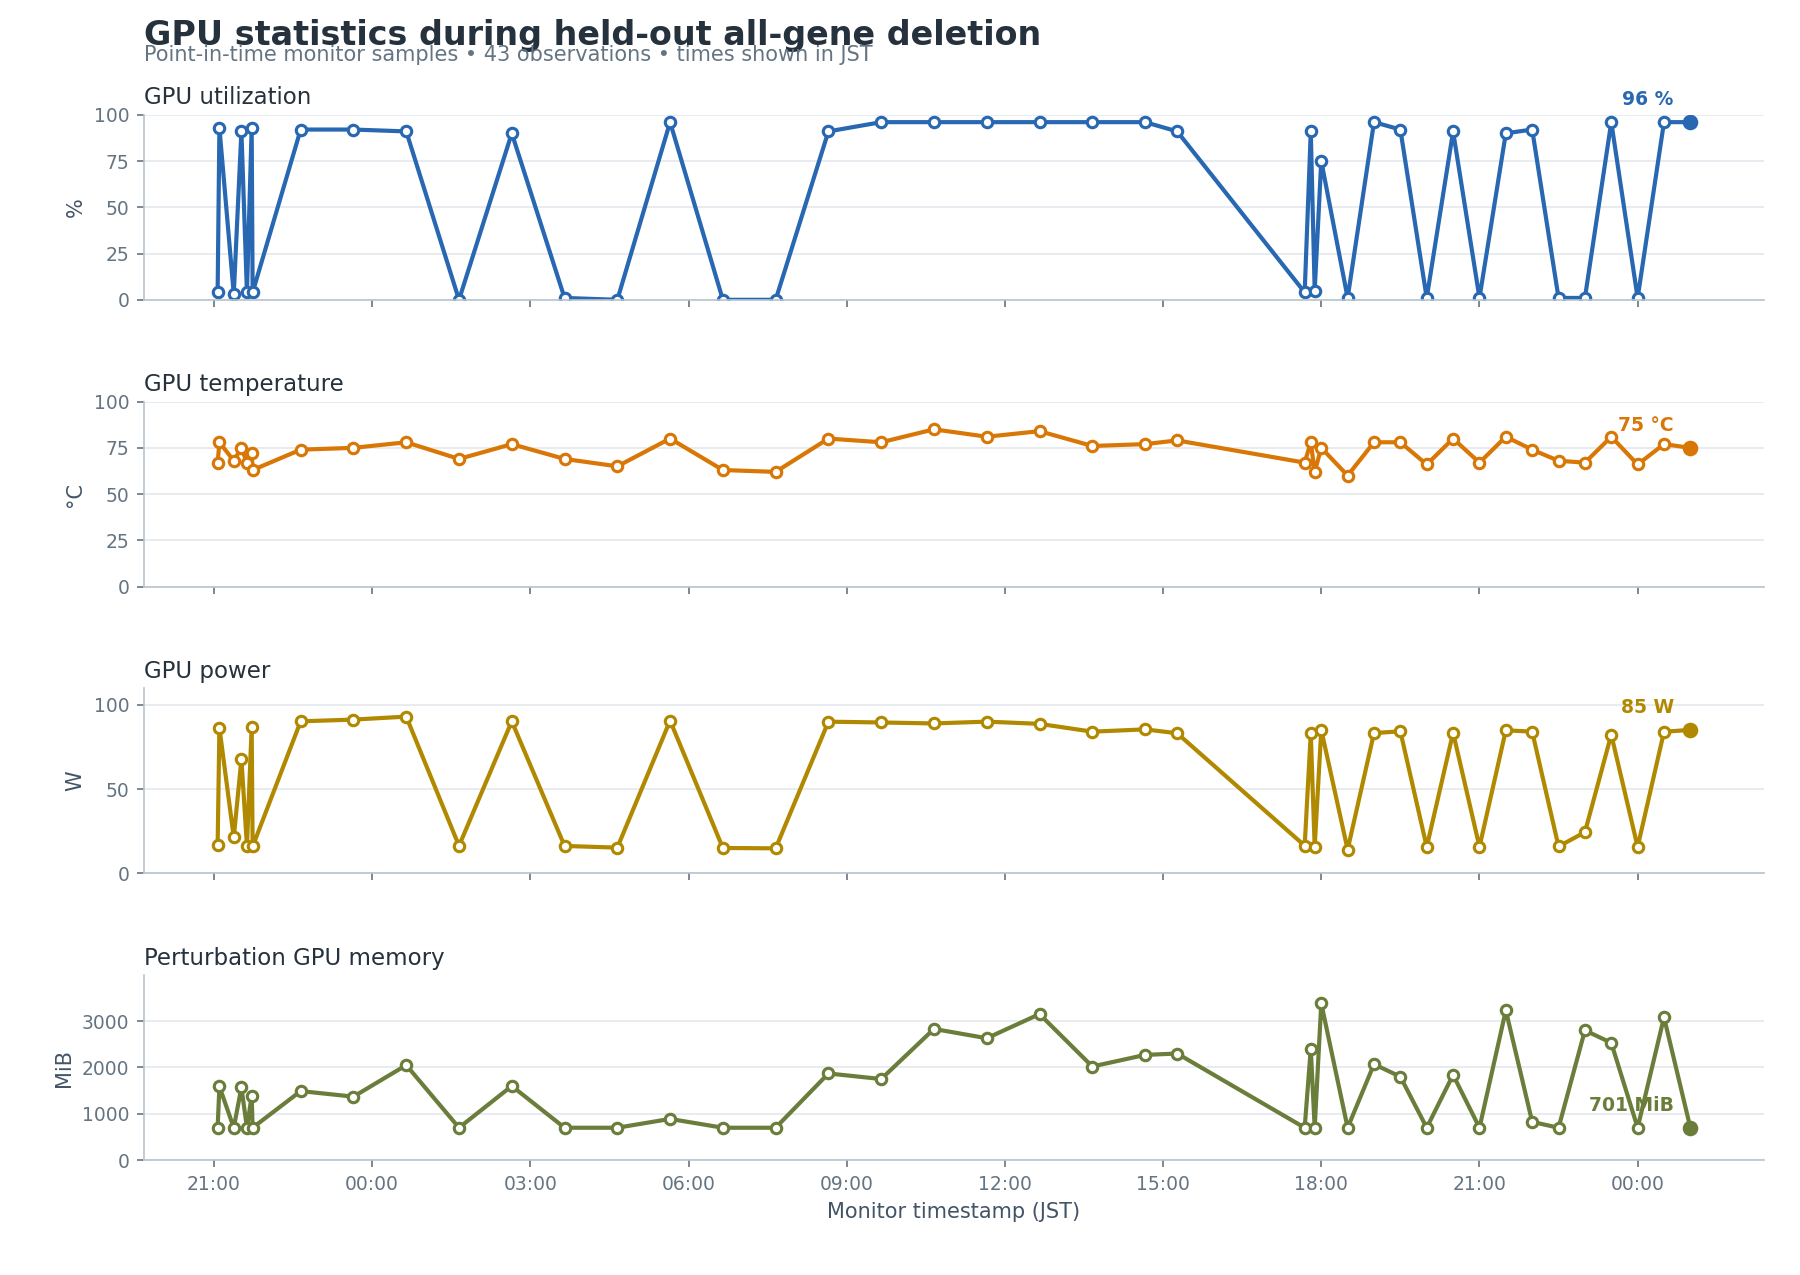
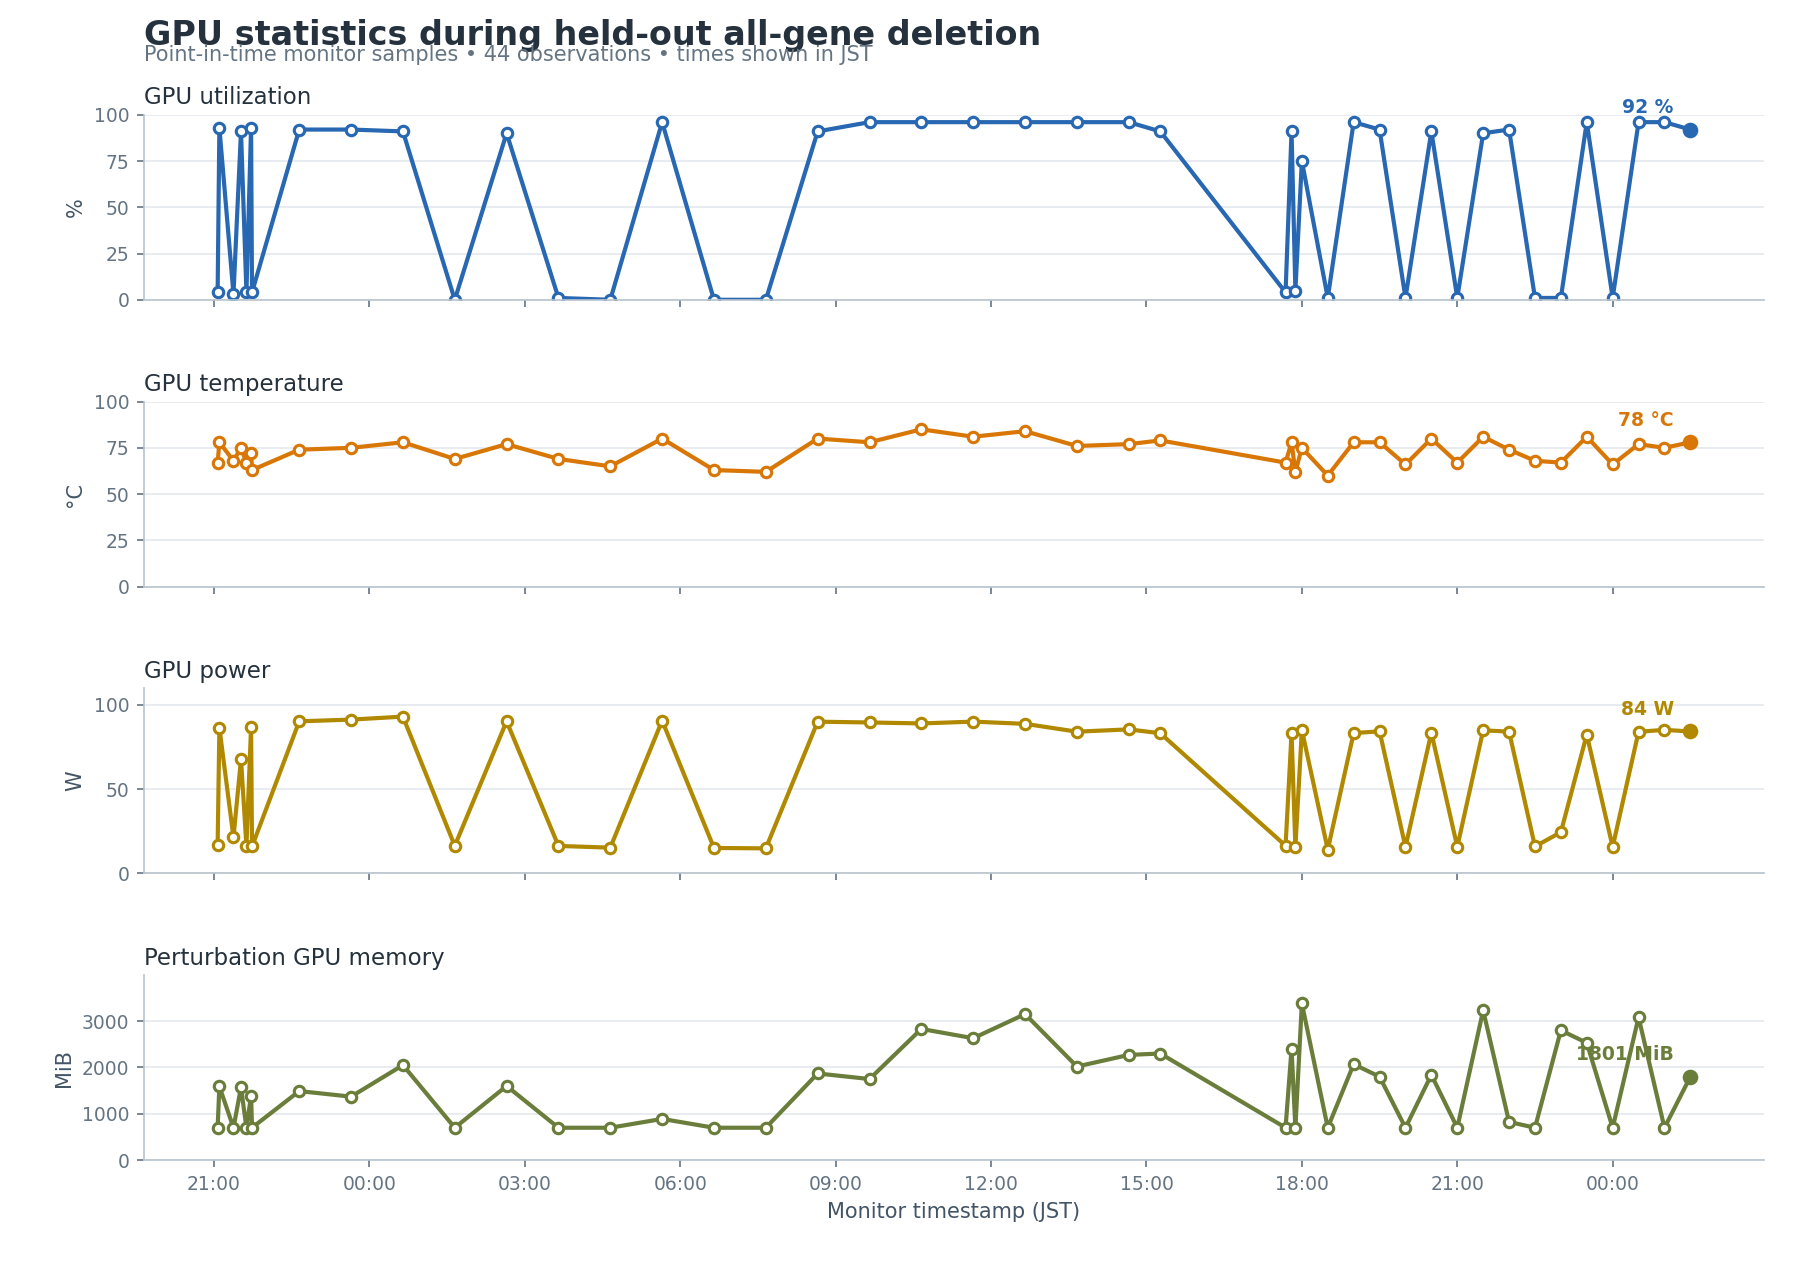
monitor: update perturbation status 2026-07-19 01:30 JST

diff --git a/current_workflow/monitoring/GPU_PROGRESS_REPORT.md b/current_workflow/monitoring/GPU_PROGRESS_REPORT.md
@@ -15,6 +15,7 @@ Newest refreshes are appended at the top and retained for the most recent
 48 runs.
 
 <!-- JOB_RUN_SUMMARIES_START -->
+- **2026-07-19T01:30:01+09:00** — RUNNING; 3,307 / 3,379 cells (97.87%). The run advanced by 43 cells and 2 shards, lifting completion from 96.60% to 97.87%. LUSC remained complete; LUAD remained complete; NORMAL moved from 1,293 to 1,336 cells; GPU utilization fell from 96% to 92%.
 - **2026-07-19T01:00:01+09:00** — RUNNING; 3,264 / 3,379 cells (96.60%). The run advanced by 43 cells and 1 shards, lifting completion from 95.32% to 96.60%. LUSC remained complete; LUAD remained complete; NORMAL moved from 1,250 to 1,293 cells; GPU utilization stayed at 96%.
 - **2026-07-19T00:30:01+09:00** — RUNNING; 3,221 / 3,379 cells (95.32%). The run advanced by 55 cells and 3 shards, lifting completion from 93.70% to 95.32%. LUSC remained complete; LUAD remained complete; NORMAL moved from 1,195 to 1,250 cells; GPU utilization rose from 1% to 96%.
 - **2026-07-19T00:00:01+09:00** — RUNNING; 3,166 / 3,379 cells (93.70%). The run advanced by 42 cells and 1 shards, lifting completion from 92.45% to 93.70%. LUSC remained complete; LUAD remained complete; NORMAL moved from 1,153 to 1,195 cells; GPU utilization fell from 96% to 1%.
@@ -37,20 +38,20 @@ Newest refreshes are appended at the top and retained for the most recent
 
 ## Current snapshot
 
-**What changed since the prior report:** The run advanced by 43 cells and 1 shards, lifting completion from 95.32% to 96.60%. LUSC remained complete; LUAD remained complete; NORMAL moved from 1,250 to 1,293 cells; GPU utilization stayed at 96%.
+**What changed since the prior report:** The run advanced by 43 cells and 2 shards, lifting completion from 96.60% to 97.87%. LUSC remained complete; LUAD remained complete; NORMAL moved from 1,293 to 1,336 cells; GPU utilization fell from 96% to 92%.
 
 | Metric | Value |
 | --- | --- |
-| Generated | 2026-07-19T01:00:01+09:00 |
+| Generated | 2026-07-19T01:30:01+09:00 |
 | Run status | RUNNING |
-| Overall cell progress | 3,264 / 3,379 (96.60%) |
+| Overall cell progress | 3,307 / 3,379 (97.87%) |
 | GPU | NVIDIA GB10 |
-| GPU utilization | 96% |
-| GPU temperature | 75 C |
-| GPU power | 85.2 W |
-| Perturbation GPU memory | 701 MiB |
-| System memory used | 39.7 GiB |
-| System memory available | 80.0 GiB |
+| GPU utilization | 92% |
+| GPU temperature | 78 C |
+| GPU power | 84.3 W |
+| Perturbation GPU memory | 1,801 MiB |
+| System memory used | 39.8 GiB |
+| System memory available | 79.9 GiB |
 | Swap used | 0.0 GiB |
 
 ### Progress by source
@@ -59,11 +60,11 @@ Newest refreshes are appended at the top and retained for the most recent
 | --- | --- | --- | --- | --- |
 | LUSC | 560 / 560 (100.00%) | 23 / 23 | 1,120 | 348,313 / 348,313 |
 | LUAD | 1,411 / 1,411 (100.00%) | 57 / 57 | 2,822 | 1,150,097 / 1,150,097 |
-| NORMAL | 1,293 / 1,408 (91.83%) | 51 / 57 | 2,603 | 1,305,764 / 1,439,366 |
+| NORMAL | 1,336 / 1,408 (94.89%) | 53 / 57 | 2,690 | 1,356,809 / 1,439,366 |
 
 ## Final statistical comparisons
 
-**0 / 6 comparisons are complete. Final aggregation waits for the deletion screen, currently 131 / 137 shards.**
+**0 / 6 comparisons are complete. Final aggregation waits for the deletion screen, currently 133 / 137 shards.**
 
 | Comparison | State | Result rows | Updated | Output |
 | --- | --- | --- | --- | --- |
@@ -88,6 +89,7 @@ The history table below shows the newest samples first.
 
 | Timestamp | Cells | Progress | GPU util | Temp | Power | Shards |
 | --- | --- | --- | --- | --- | --- | --- |
+| 2026-07-19T01:30:01+09:00 | 3,307 | 97.87% | 92% | 78 C | 84.3 W | 133 |
 | 2026-07-19T01:00:01+09:00 | 3,264 | 96.60% | 96% | 75 C | 85.2 W | 131 |
 | 2026-07-19T00:30:01+09:00 | 3,221 | 95.32% | 96% | 77 C | 84.1 W | 130 |
 | 2026-07-19T00:00:01+09:00 | 3,166 | 93.70% | 1% | 66 C | 15.8 W | 127 |
@@ -95,7 +97,6 @@ The history table below shows the newest samples first.
 | 2026-07-18T23:00:01+09:00 | 3,075 | 91.00% | 1% | 67 C | 24.5 W | 124 |
 | 2026-07-18T22:30:01+09:00 | 3,032 | 89.73% | 1% | 68 C | 16.0 W | 122 |
 | 2026-07-18T22:00:01+09:00 | 2,990 | 88.49% | 92% | 74 C | 84.2 W | 120 |
-| 2026-07-18T21:30:01+09:00 | 2,948 | 87.24% | 90% | 81 C | 85.0 W | 119 |
 
 ## Job notes
 
